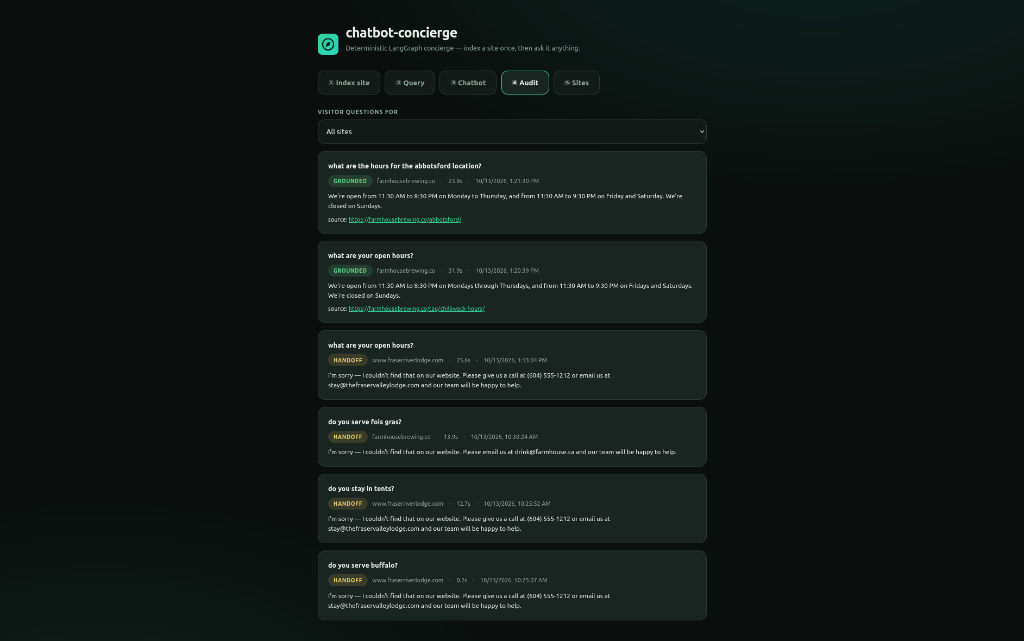
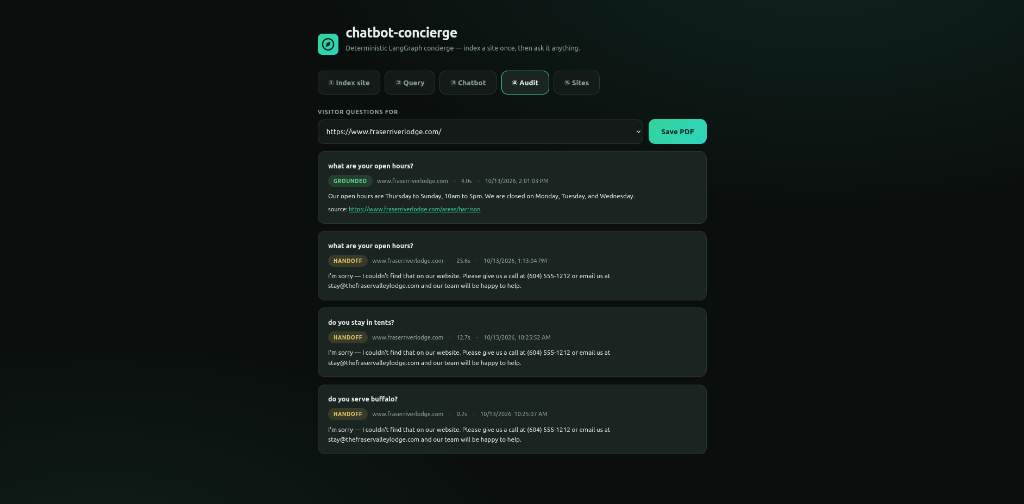
Update audit screenshot and document PDF export
Generated with [Devin](https://devin.ai)

Changed region(s): [[0.3125, 0.0298, 0.6875, 0.9524], [0.625, 0.4464, 0.6562, 0.4762], [0.5625, 0.4464, 0.5938, 0.4762]]

diff --git a/README.md b/README.md
@@ -27,7 +27,8 @@ bottom-right over the host page and opens the concierge popup.*
 ![Audit tab](docs/audit-tab.png)
 
 *④ Audit — every visitor question logged with its outcome (grounded /
-handoff / error), latency, answer, and sources; filterable per site.*
+handoff / error), latency, answer, and sources; filterable per site and
+exportable to PDF (`audit-{domain}-{YYYY-MM}.pdf` via `GET /audit/pdf`).*
 
 ## Quick start
 
